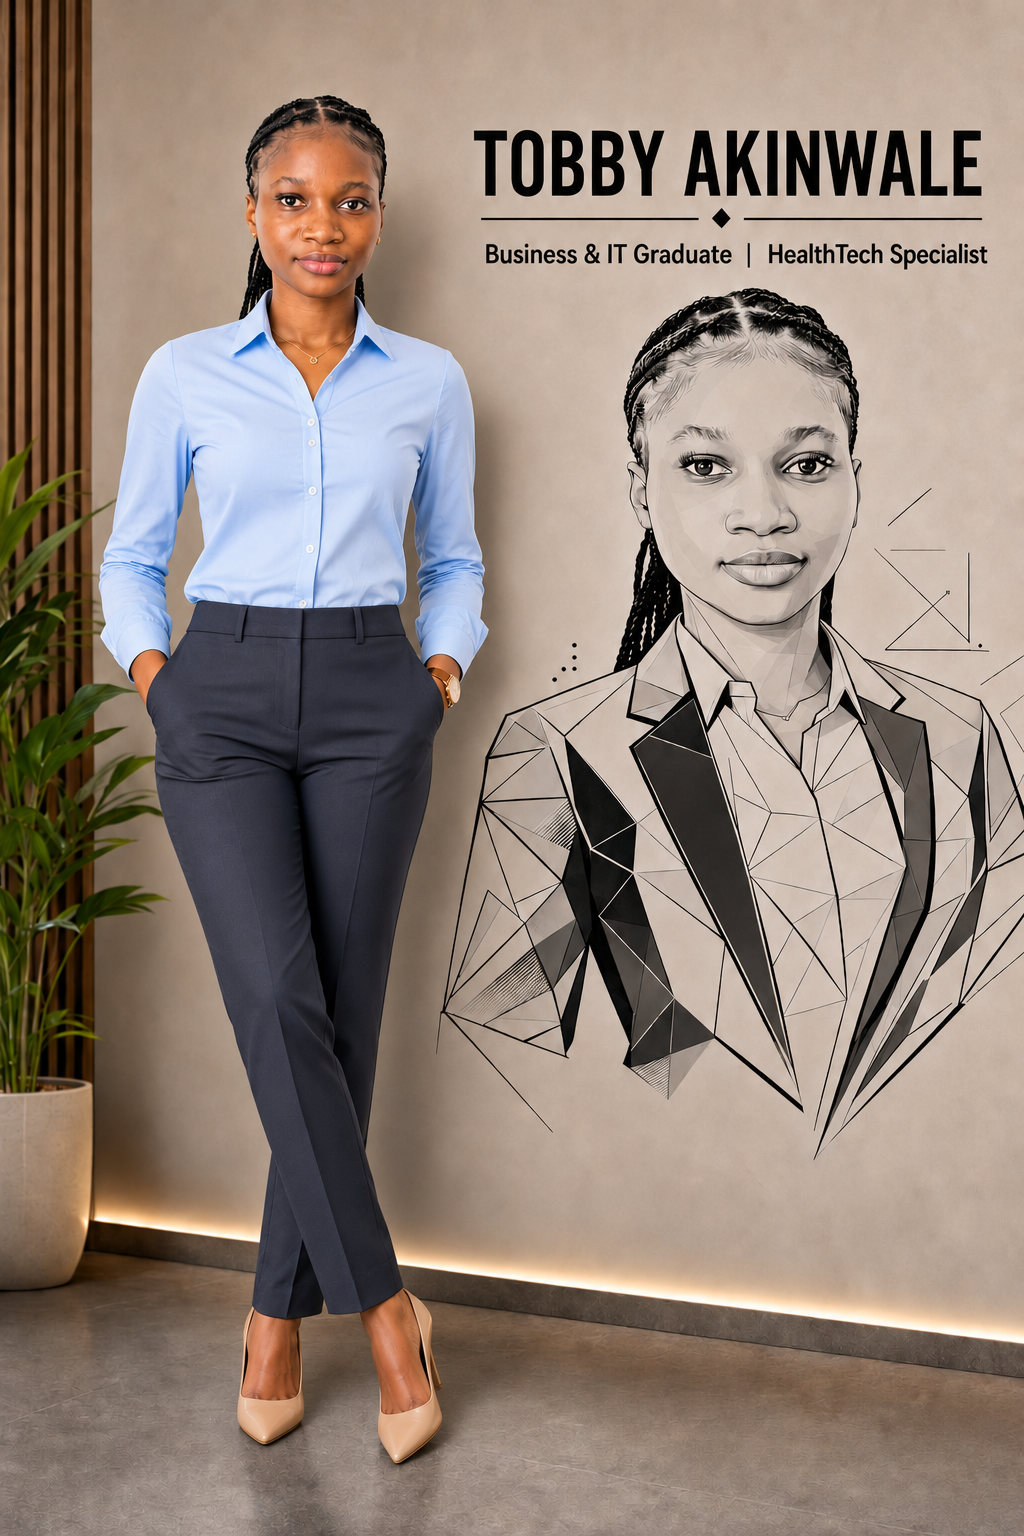
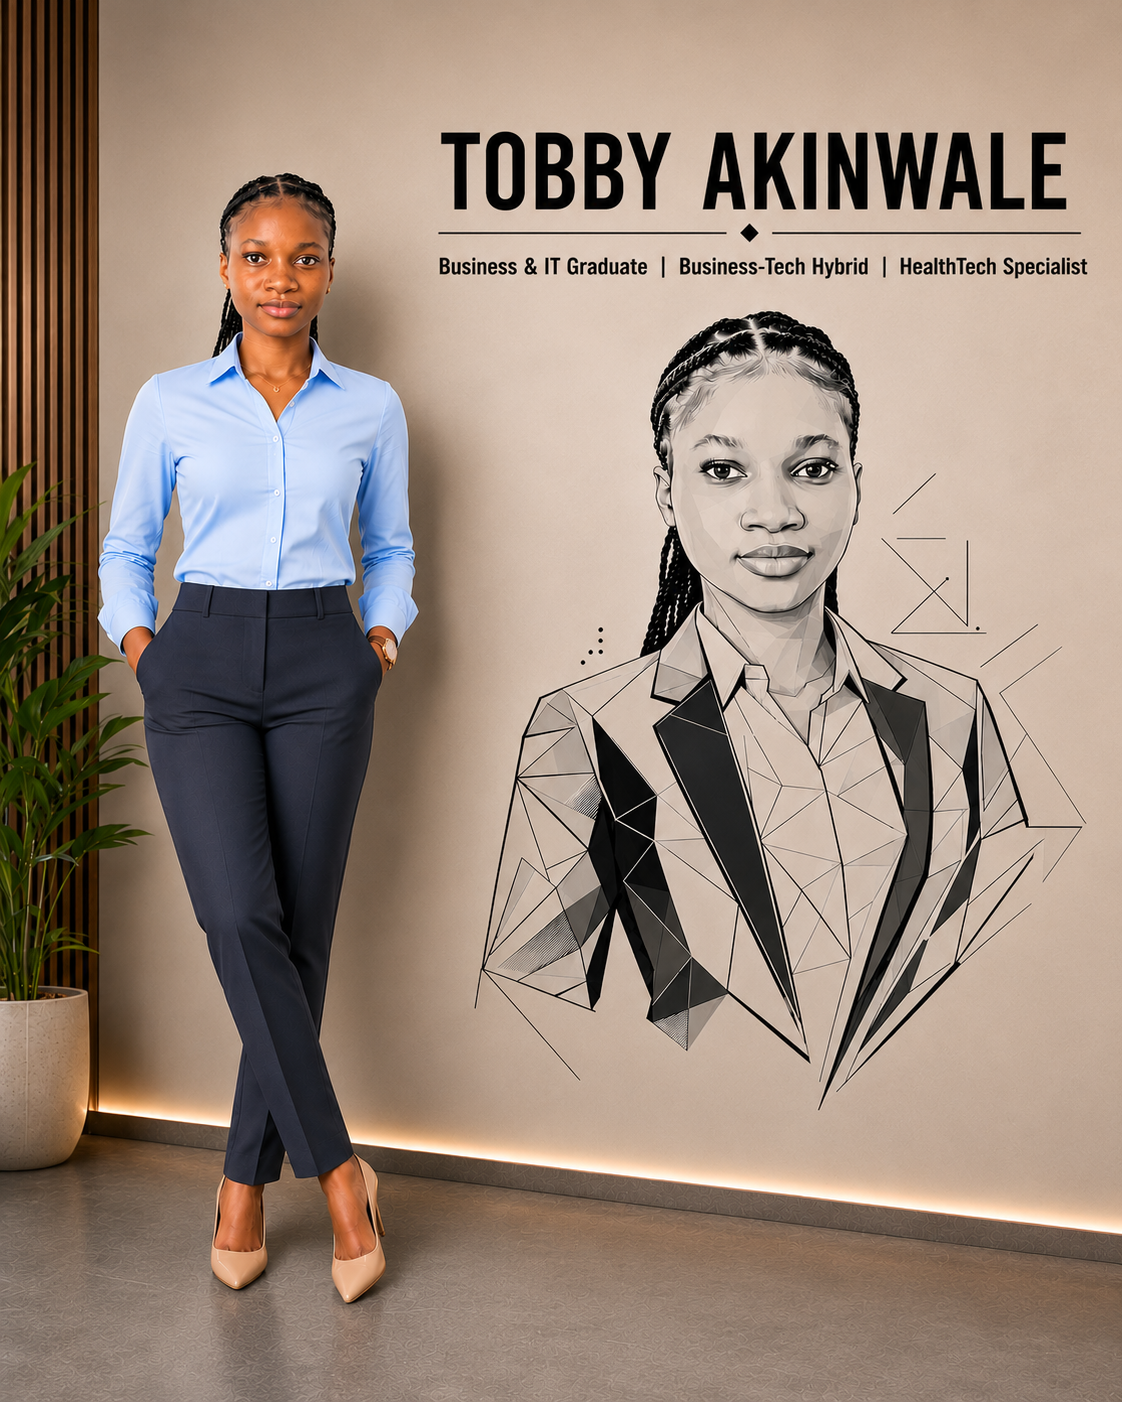
Modification of the about.html, index.html, and Tobby.png files to enhance the website's content and visuals.

diff --git a/about.html b/about.html
@@ -9,6 +9,14 @@
   <link rel="preconnect" href="https://fonts.gstatic.com" crossorigin />
   <link href="https://fonts.googleapis.com/css2?family=Inter:ital,wght@0,300;0,400;0,500;0,600;0,700;0,800;1,400&display=swap" rel="stylesheet" />
   <link rel="stylesheet" href="css/style.css" />
+  <style>
+    /* Differentiators grid: 3 cols desktop, 2 tablet, 1 mobile */
+    .diff-grid { grid-template-columns: repeat(3, 1fr); }
+    @media (max-width: 860px) { .diff-grid { grid-template-columns: repeat(2, 1fr); } }
+    @media (max-width: 540px) { .diff-grid { grid-template-columns: 1fr; } }
+    /* Equal height cards within each row */
+    .diff-card { height: 100%; }
+  </style>
 </head>
 <body>
 
@@ -82,8 +90,9 @@
               documentation to database design, she works fluently across both worlds.
             </p>
             <blockquote class="bio-pullquote">
-              She is the <strong>healthcare insider building healthcare technology,</strong> and that perspective
-              changes everything about how the work gets done.
+              She brings a rare combination to the table: the technical skills to build robust systems, the business
+              acumen to understand why those systems matter, and the frontline healthcare experience to know exactly
+              what they need to do for the people using them.
             </blockquote>
             <p>
               Her career path is not a pivot. It is an evolution. Every year in healthcare has sharpened her instincts
@@ -102,43 +111,56 @@
         <div class="section-header fade-up">
           <span class="section-eyebrow">Why it matters</span>
           <h2>What Sets Me Apart</h2>
-          <p>Five qualities that define how I approach every project and role.</p>
+          <p>Six qualities that define how she approaches every project, every role, and every problem.</p>
         </div>
         <div class="diff-grid">
 
           <div class="diff-card fade-up fade-up-delay-1">
             <div class="diff-icon" aria-hidden="true">
-              <svg width="22" height="22" viewBox="0 0 24 24" fill="none" stroke="currentColor" stroke-width="2" stroke-linecap="round" stroke-linejoin="round"><circle cx="12" cy="12" r="10"/><polyline points="12 6 12 12 16 14"/></svg>
+              <svg width="22" height="22" viewBox="0 0 24 24" fill="none" stroke="currentColor" stroke-width="2" stroke-linecap="round" stroke-linejoin="round"><rect x="3" y="4" width="18" height="18" rx="2"/><line x1="16" y1="2" x2="16" y2="6"/><line x1="8" y1="2" x2="8" y2="6"/><line x1="3" y1="10" x2="21" y2="10"/></svg>
             </div>
             <h3>8+ Years Real-World Experience</h3>
+            <p>While most graduates are building their first CV, Tobby has spent over eight years working in professional healthcare and social care environments across Dublin. That depth of experience shapes how she approaches every project, every system, and every problem.</p>
           </div>
 
           <div class="diff-card fade-up fade-up-delay-2">
             <div class="diff-icon" aria-hidden="true">
-              <svg width="22" height="22" viewBox="0 0 24 24" fill="none" stroke="currentColor" stroke-width="2" stroke-linecap="round" stroke-linejoin="round"><path d="M22 12h-4l-3 9L9 3l-3 9H2"/></svg>
+              <svg width="22" height="22" viewBox="0 0 24 24" fill="none" stroke="currentColor" stroke-width="2" stroke-linecap="round" stroke-linejoin="round"><rect x="2" y="7" width="20" height="14" rx="2"/><path d="M16 7V5a2 2 0 0 0-2-2h-4a2 2 0 0 0-2 2v2"/></svg>
             </div>
-            <h3>Healthcare Insider Building HealthTech</h3>
+            <h3>Business Operations Meets Technology</h3>
+            <p>With a degree in Business and Information Technology, Tobby understands both sides of the room. She can translate business requirements into technical solutions and communicate technical decisions back to non-technical stakeholders, something most developers and most business analysts cannot do.</p>
           </div>
 
           <div class="diff-card fade-up fade-up-delay-3">
             <div class="diff-icon" aria-hidden="true">
-              <svg width="22" height="22" viewBox="0 0 24 24" fill="none" stroke="currentColor" stroke-width="2" stroke-linecap="round" stroke-linejoin="round"><path d="M12 22s8-4 8-10V5l-8-3-8 3v7c0 6 8 10 8 10z"/></svg>
+              <svg width="22" height="22" viewBox="0 0 24 24" fill="none" stroke="currentColor" stroke-width="2" stroke-linecap="round" stroke-linejoin="round"><path d="M22 12h-4l-3 9L9 3l-3 9H2"/></svg>
             </div>
-            <h3>Strong Compliance &amp; Data Protection Background</h3>
+            <h3>Healthcare Insider Building HealthTech</h3>
+            <p>Tobby has worked in clinical and social care settings for years before ever writing a line of code. When she builds healthcare technology, she builds it with the perspective of someone who has actually used those systems under pressure. That credibility is rare.</p>
           </div>
 
-          <div class="diff-card fade-up fade-up-delay-4">
+          <div class="diff-card fade-up fade-up-delay-1">
+            <div class="diff-icon" aria-hidden="true">
+              <svg width="22" height="22" viewBox="0 0 24 24" fill="none" stroke="currentColor" stroke-width="2" stroke-linecap="round" stroke-linejoin="round"><path d="M12 22s8-4 8-10V5l-8-3-8 3v7c0 6 8 10 8 10z"/></svg>
+            </div>
+            <h3>Strong Compliance and Data Protection Background</h3>
+            <p>GDPR, safeguarding frameworks, and confidentiality standards are not abstract concepts to Tobby. She has lived and worked within them across multiple regulated environments, which gives her a practical understanding that most IT graduates simply do not have.</p>
+          </div>
+
+          <div class="diff-card fade-up fade-up-delay-2">
             <div class="diff-icon" aria-hidden="true">
               <svg width="22" height="22" viewBox="0 0 24 24" fill="none" stroke="currentColor" stroke-width="2" stroke-linecap="round" stroke-linejoin="round"><path d="M17 21v-2a4 4 0 0 0-4-4H5a4 4 0 0 0-4 4v2"/><circle cx="9" cy="7" r="4"/><path d="M23 21v-2a4 4 0 0 0-3-3.87"/><path d="M16 3.13a4 4 0 0 1 0 7.75"/></svg>
             </div>
-            <h3>Person-Centred Thinking</h3>
+            <h3>Person-Centred Thinking in Tech and Business</h3>
+            <p>Years of person-centred care work have built a way of thinking that carries directly into technology and business roles. Tobby designs and builds with the end user in mind, not as a UX principle she learned in a lecture, but as a professional habit formed over years of frontline work.</p>
           </div>
 
-          <div class="diff-card fade-up fade-up-delay-5">
+          <div class="diff-card fade-up fade-up-delay-3">
             <div class="diff-icon" aria-hidden="true">
-              <svg width="22" height="22" viewBox="0 0 24 24" fill="none" stroke="currentColor" stroke-width="2" stroke-linecap="round" stroke-linejoin="round"><path d="M2 3h6a4 4 0 0 1 4 4v14a3 3 0 0 0-3-3H2z"/><path d="M22 3h-6a4 4 0 0 0-4 4v14a3 3 0 0 1 3-3h7z"/></svg>
+              <svg width="22" height="22" viewBox="0 0 24 24" fill="none" stroke="currentColor" stroke-width="2" stroke-linecap="round" stroke-linejoin="round"><polyline points="16 18 22 12 16 6"/><polyline points="8 6 2 12 8 18"/></svg>
             </div>
-            <h3>Business Degree + Technical Skills</h3>
+            <h3>Business Degree and Technical Skills Combined</h3>
+            <p>Tobby can build a full-stack web application and then walk into a boardroom and explain why it matters. That combination of technical ability and business literacy is what sets her apart from specialists on either side.</p>
           </div>
 
         </div>

diff --git a/index.html b/index.html
@@ -51,10 +51,11 @@
         <h1>
           <span class="name-teal">Tobby</span> Akinwale
         </h1>
-        <p class="hero-subtitle">Business &amp; IT Graduate &nbsp;|&nbsp; HealthTech Specialist</p>
+        <p class="hero-subtitle">Business &amp; IT Graduate &nbsp;|&nbsp; Business-Tech Hybrid &nbsp;|&nbsp; HealthTech Specialist</p>
         <p class="hero-tagline">
           <em>Bridging the gap between business operations and technology solutions,</em>
-          with 8 years of healthcare experience behind every decision.
+          with 8 years of frontline healthcare experience informing every system
+          she builds and every decision she makes.
         </p>
         <div class="hero-cta">
           <a href="projects.html" class="btn btn-primary">
